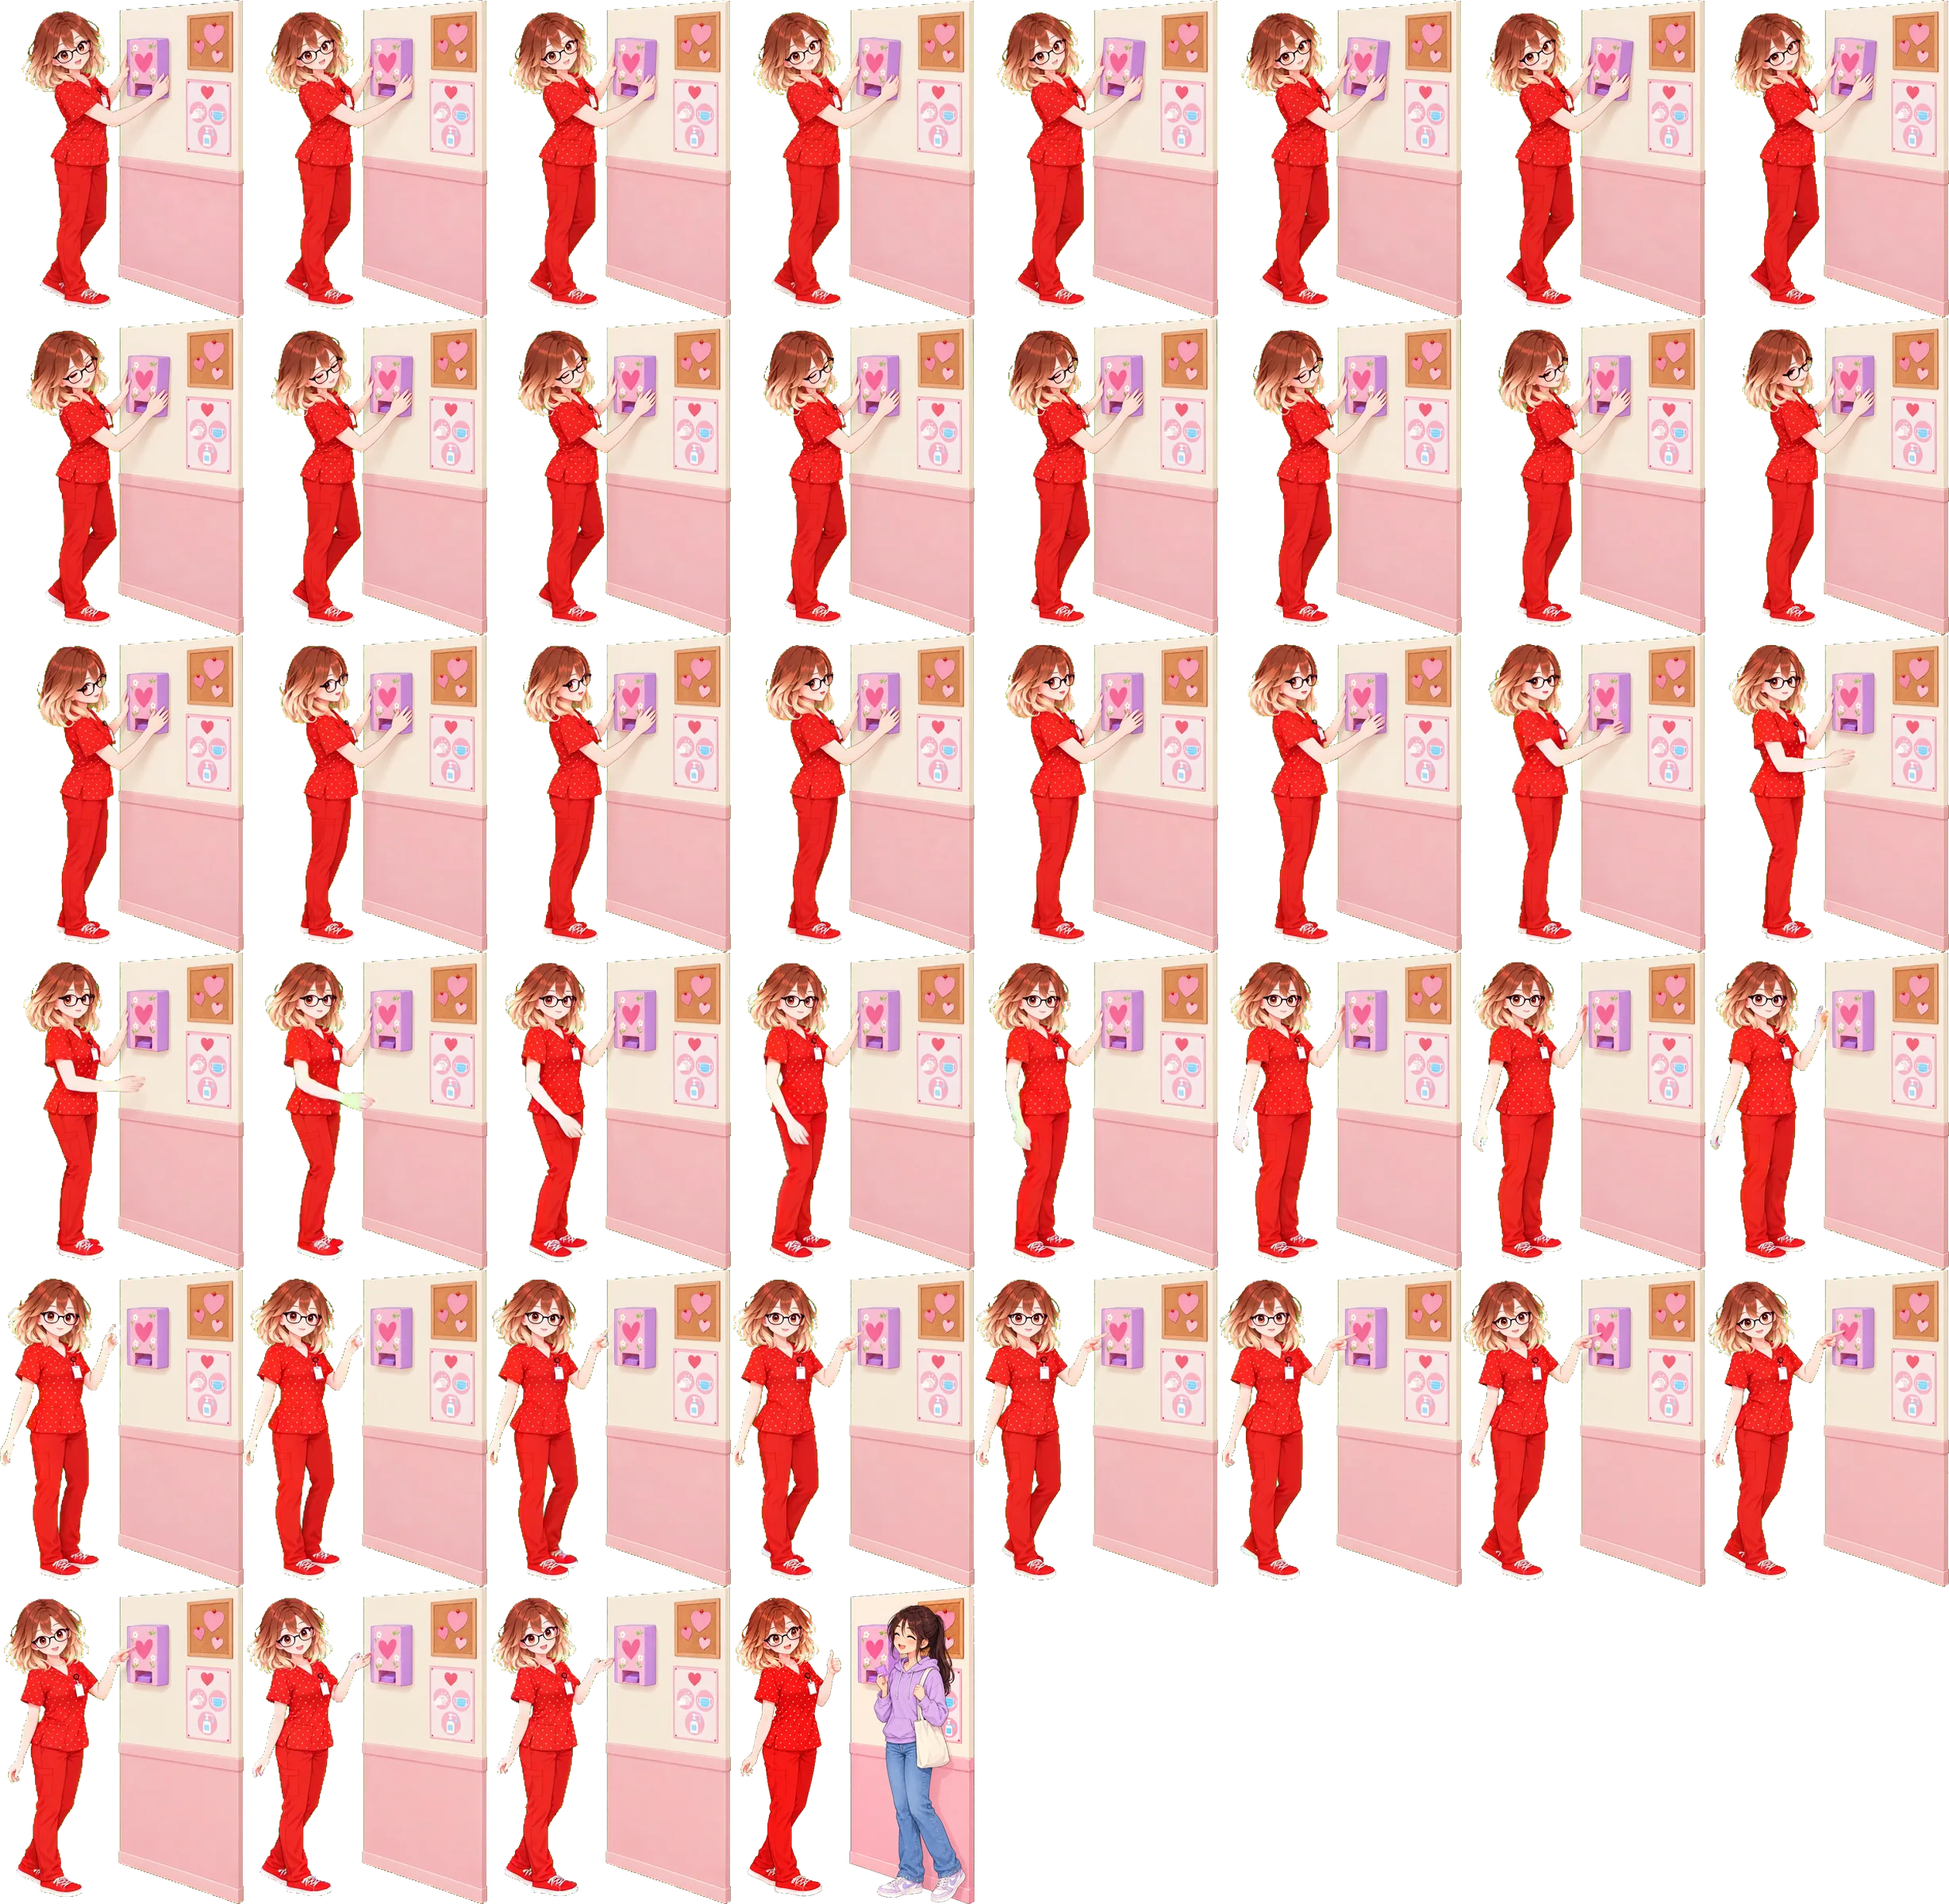
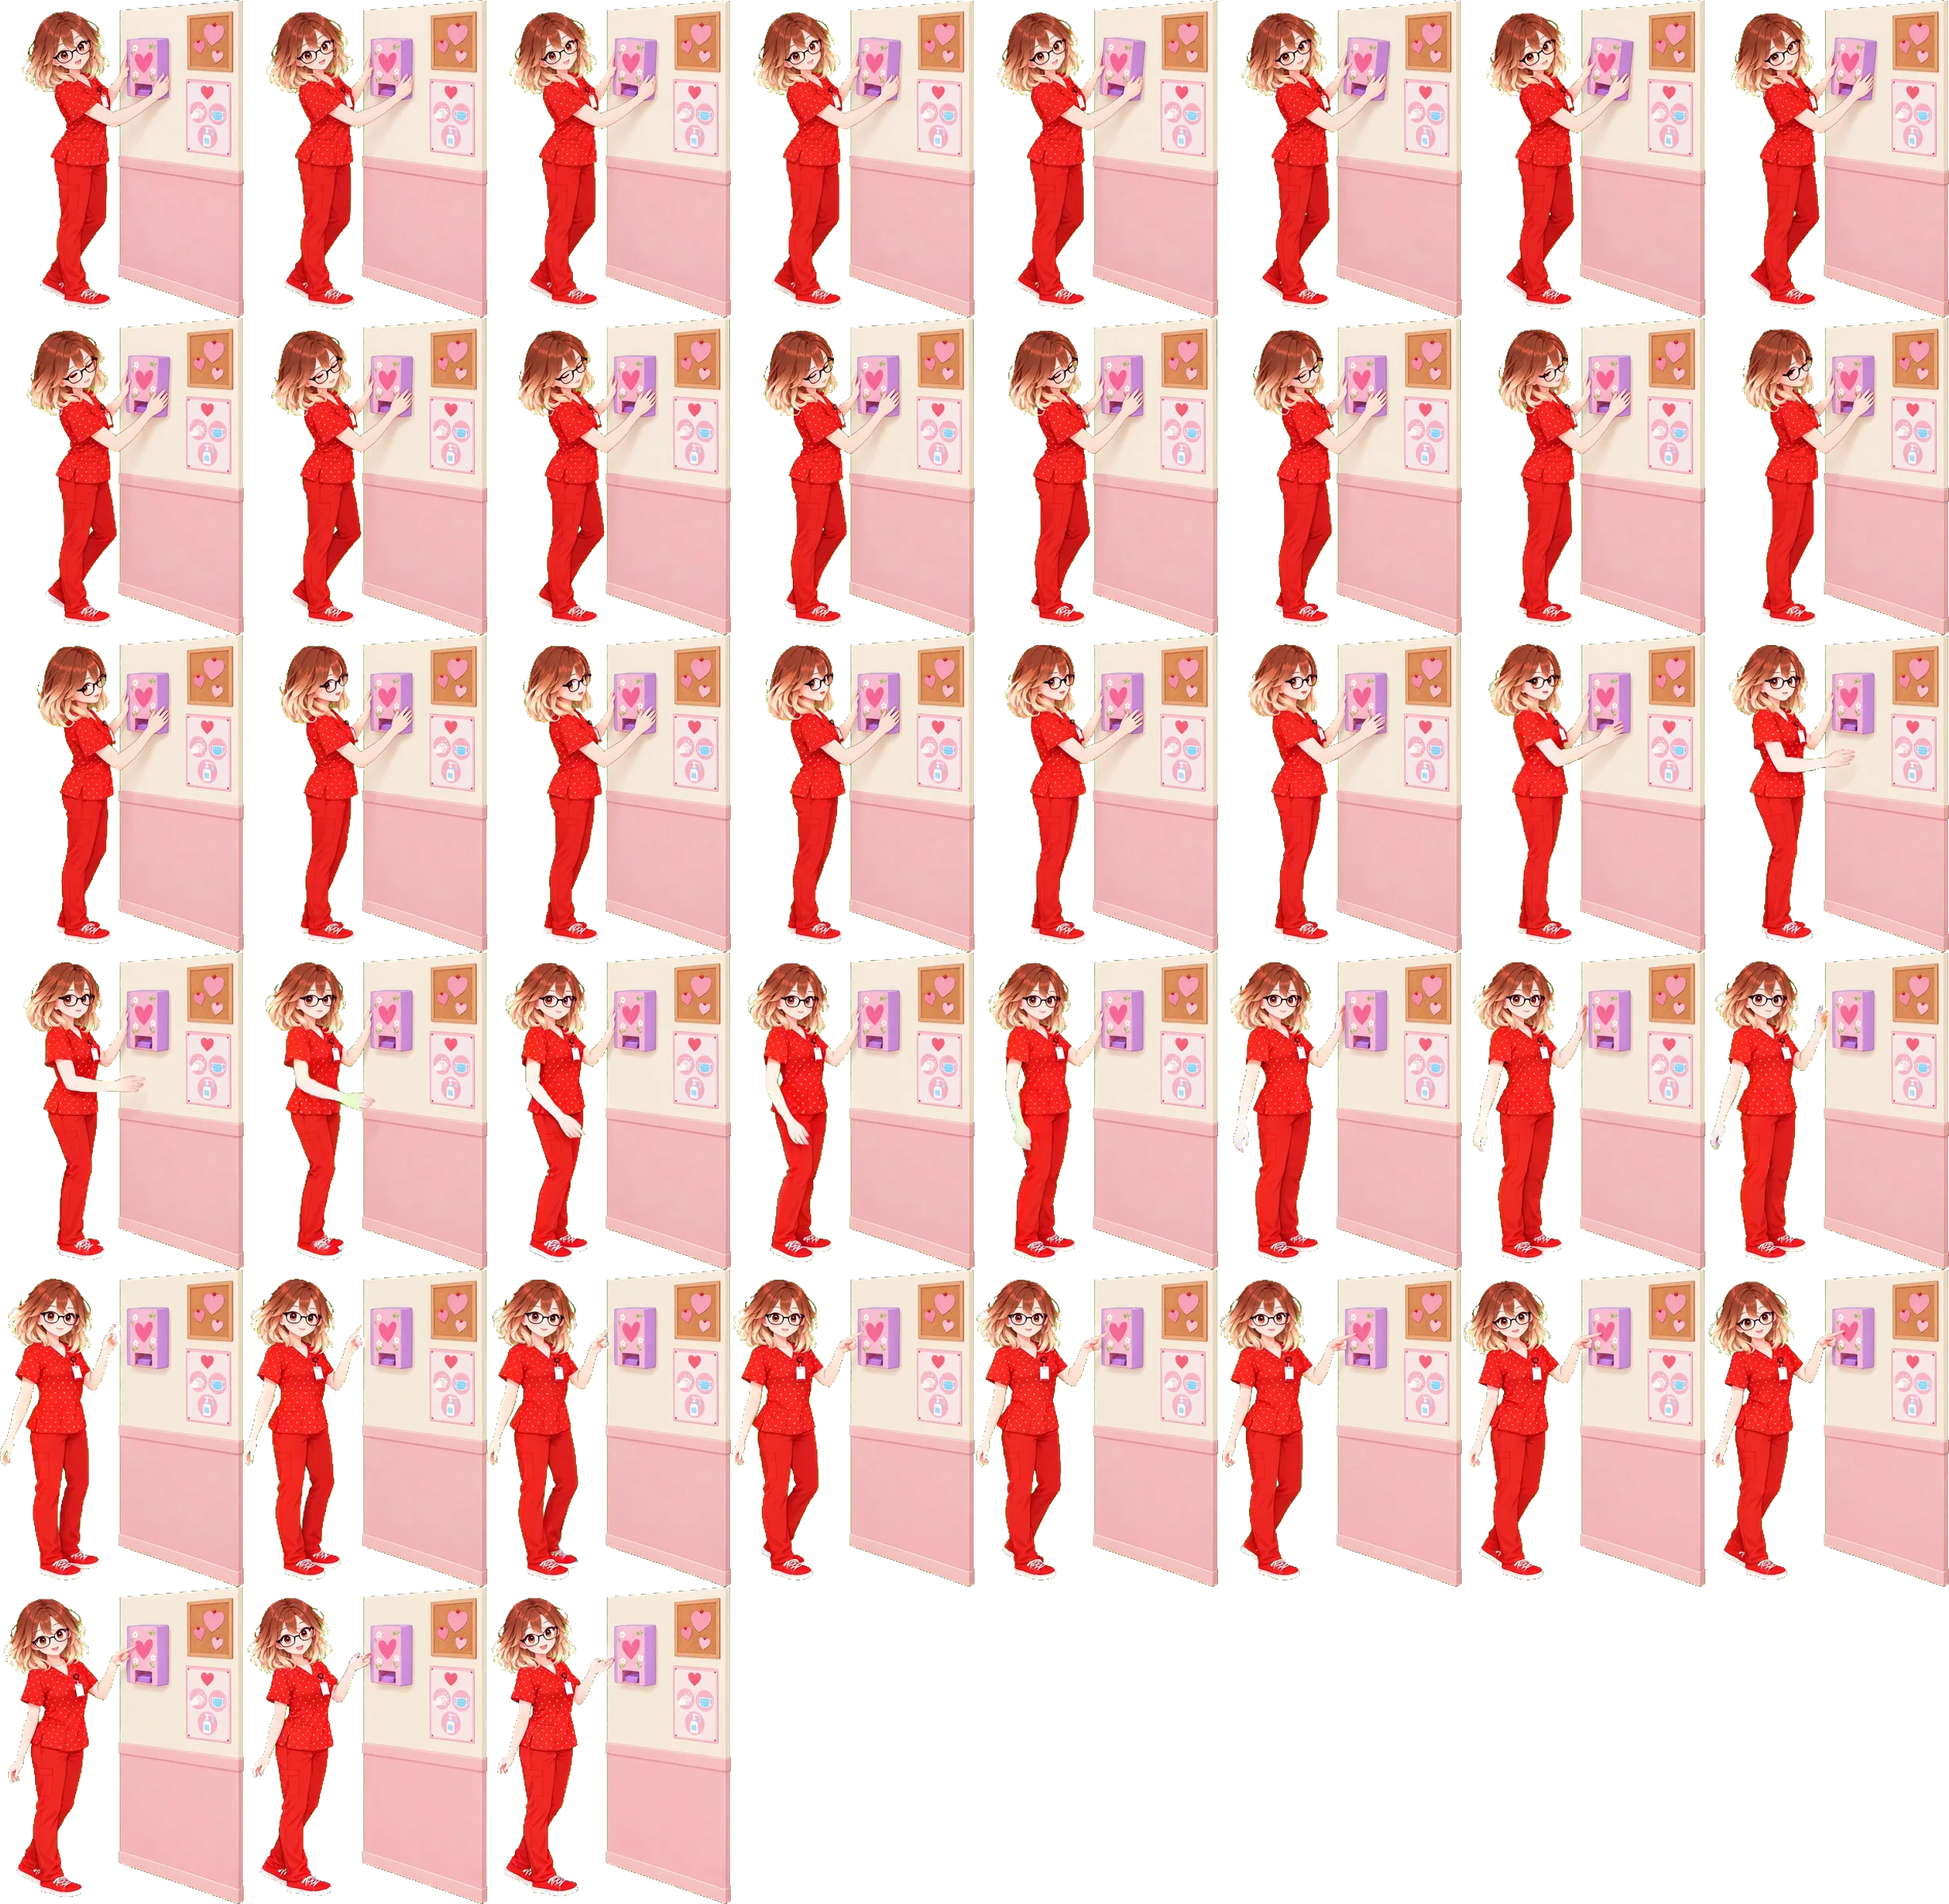
Capítulo III: la paciente llega caminando desde la derecha hasta el dispensador

Changed region(s): [[0.3713, 0.8125, 0.5261, 1.0]]

diff --git a/cuento.js b/cuento.js
@@ -337,7 +337,8 @@
     { fondo: 'fondo-cesfam.webp', suelo: 'suelo-cesfam.webp', pasos: [
       { actor: 'disp', x: 50, ancho: 25, de: 0, a: 1, ms: 5000 },                   // al centro: arma el dispensador y lo muestra
       { actor: 'muro', x: 76, ancho: 21, de: 0, a: 1, ms: 3500, quita: 'disp' },    // a la derecha: lo instala en el muro
-      { actor: 'muro', de: 1, a: 2, ms: 3500 }                                      // llega una paciente y saca uno
+      { actor: 'pac', camina: [0, 1], desde: 93, x: 80, ancho: 14.5, ms: 3400, delante: true },   // una paciente llega caminando desde la derecha…
+      { actor: 'pac', de: 2, a: 3, ms: 3000 }                                       // …saca uno del dispensador y sonríe
     ] }
   ];
   const hojas = {};
@@ -359,15 +360,27 @@
     const actor = async (p, d) => {
       if (actores[p.actor]) return actores[p.actor];
       const m = await hojaDe(p.actor), a = document.createElement('div'); a._m = m;
-      a.className = 'hito-pop hito-actor'; a.style.left = (p.x - p.ancho / 2) + '%'; a.style.width = p.ancho + '%'; a.style.aspectRatio = m.w + ' / ' + m.h;
+      a.className = 'hito-pop hito-actor' + (p.delante ? ' delante' : ''); a.style.left = ((p.desde ?? p.x) - p.ancho / 2) + '%'; a.style.width = p.ancho + '%'; a.style.aspectRatio = m.w + ' / ' + m.h;
       a.innerHTML = '<i></i><i></i>';
       [...a.children].forEach(c => { c.style.backgroundImage = 'url(' + C3(p.actor + '.webp') + ')'; c.style.backgroundSize = (m.cols * 100) + '% ' + (Math.ceil(m.n / m.cols) * 100) + '%'; });
-      cuadro(a, m.marcas[p.de]); actores[p.actor] = a; levantar(a, d); return a;
+      cuadro(a, m.marcas[p.camina ? p.camina[0] : p.de]); actores[p.actor] = a; levantar(a, d); return a;
     };
     const tramo = (a, de, al, ms, mia) => new Promise(fin => {
       const t0 = performance.now();
       const paso = t => { if (mia !== vuelta || !a.isConnected) { fin(false); return; } const u = Math.min(1, (t - t0) / ms); cuadro(a, de + (al - de) * u); if (u < 1) requestAnimationFrame(paso); else fin(true); };
       if (quieto) { cuadro(a, al); fin(true); } else requestAnimationFrame(paso);
+    });
+    const caminar = (a, p, mia) => new Promise(fin => {
+      const m = a._m, c0 = m.marcas[p.camina[0]], c1 = m.marcas[p.camina[1]], t0 = performance.now(), CICLO = 1000;
+      a.classList.add('camina'); a.classList.toggle('camina-fija', c1 <= c0);
+      const paso = t => {
+        if (mia !== vuelta || !a.isConnected) { fin(false); return; }
+        const u = Math.min(1, (t - t0) / p.ms);
+        a.style.left = (p.desde + (p.x - p.desde) * u - p.ancho / 2).toFixed(2) + '%';
+        if (c1 > c0) cuadro(a, c0 + (((t - t0) % CICLO) / CICLO) * (c1 - c0));
+        if (u < 1) requestAnimationFrame(paso); else { a.classList.remove('camina', 'camina-fija'); fin(true); }
+      };
+      if (quieto) { a.style.left = (p.x - p.ancho / 2) + '%'; fin(true); } else requestAnimationFrame(paso);
     });
     const espera = (ms, mia) => new Promise(fin => luego(() => fin(mia === vuelta), ms));
     const suelo = src => { const capas = zona.querySelectorAll('.hitos-suelo i'), nueva = [...capas].find(c => !c.classList.contains('ver')) || capas[0]; nueva.style.backgroundImage = 'url("' + C3(src) + '")'; capas.forEach(c => c.classList.toggle('ver', c === nueva)); };
@@ -384,7 +397,7 @@
         const a = await actor(p, .1);
         if (!(await espera(actores[p.actor] === a && a.dataset.listo ? 300 : 1100, mia))) return;
         a.dataset.listo = '1';
-        if (!(await tramo(a, a._m.marcas[p.de], a._m.marcas[p.a], p.ms, mia))) return;
+        if (!(await (p.camina ? caminar(a, p, mia) : tramo(a, a._m.marcas[p.de], a._m.marcas[p.a], p.ms, mia)))) return;
         if (!(await espera(1300, mia))) return;
       }
       if (!(await espera(1800, mia))) return;

diff --git a/index.html b/index.html
@@ -12,7 +12,7 @@
   <link rel="preconnect" href="https://fonts.googleapis.com"><link rel="preconnect" href="https://fonts.gstatic.com" crossorigin>
   <link rel="stylesheet" href="https://fonts.googleapis.com/css2?family=Cinzel:wght@500;700&family=Cormorant+Garamond:ital,wght@0,500;0,600;1,500&display=swap">
   <link rel="stylesheet" href="styles.css?v=20261002a">
-  <link rel="stylesheet" href="libro.css?v=20261006b">
+  <link rel="stylesheet" href="libro.css?v=20261006d">
   <link rel="stylesheet" href="tema-claro.css?v=20261002a">
   <link rel="stylesheet" href="intro.css?v=20260929f">
   <link rel="icon" href="assets/emblema-estrella.png">
@@ -31,8 +31,8 @@
   <script src="magia.js?v=20261002a" defer></script>
   <script src="fondo-acuarela.js?v=20261002a" defer></script>
   <script src="secciones.js?v=20261002a" defer></script>
-  <script src="libro.js?v=20261006b" defer></script>
-  <script src="cuento.js?v=20261006b" defer></script>
+  <script src="libro.js?v=20261006d" defer></script>
+  <script src="cuento.js?v=20261006d" defer></script>
   <script src="vendor/gsap.min.js" defer></script>
   <script src="vendor/MotionPathPlugin.min.js" defer></script>
   <script src="intro-trazos.js?v=20260929c" defer></script>

diff --git a/libro.css b/libro.css
@@ -1574,3 +1574,7 @@ html[data-cielo="noche"] .vida-hoja{filter:brightness(.94)}
 .hito-actor i+i{opacity:0}
 .hitos-controles .hito-num{font:600 .85rem/1 var(--sans);color:#6a2c55;min-width:3.2em;text-align:center}
 .libro.una.acostado .hito-actor{bottom:38%}
+.hito-actor.delante{bottom:24%}
+/* mientras no haya video de caminata, un balanceo suave de paso */
+.hito-actor.camina-fija > i{animation:hito-paso .5s ease-in-out infinite alternate}
+@keyframes hito-paso{from{transform:translateY(0)}to{transform:translateY(-2.5%)}}
